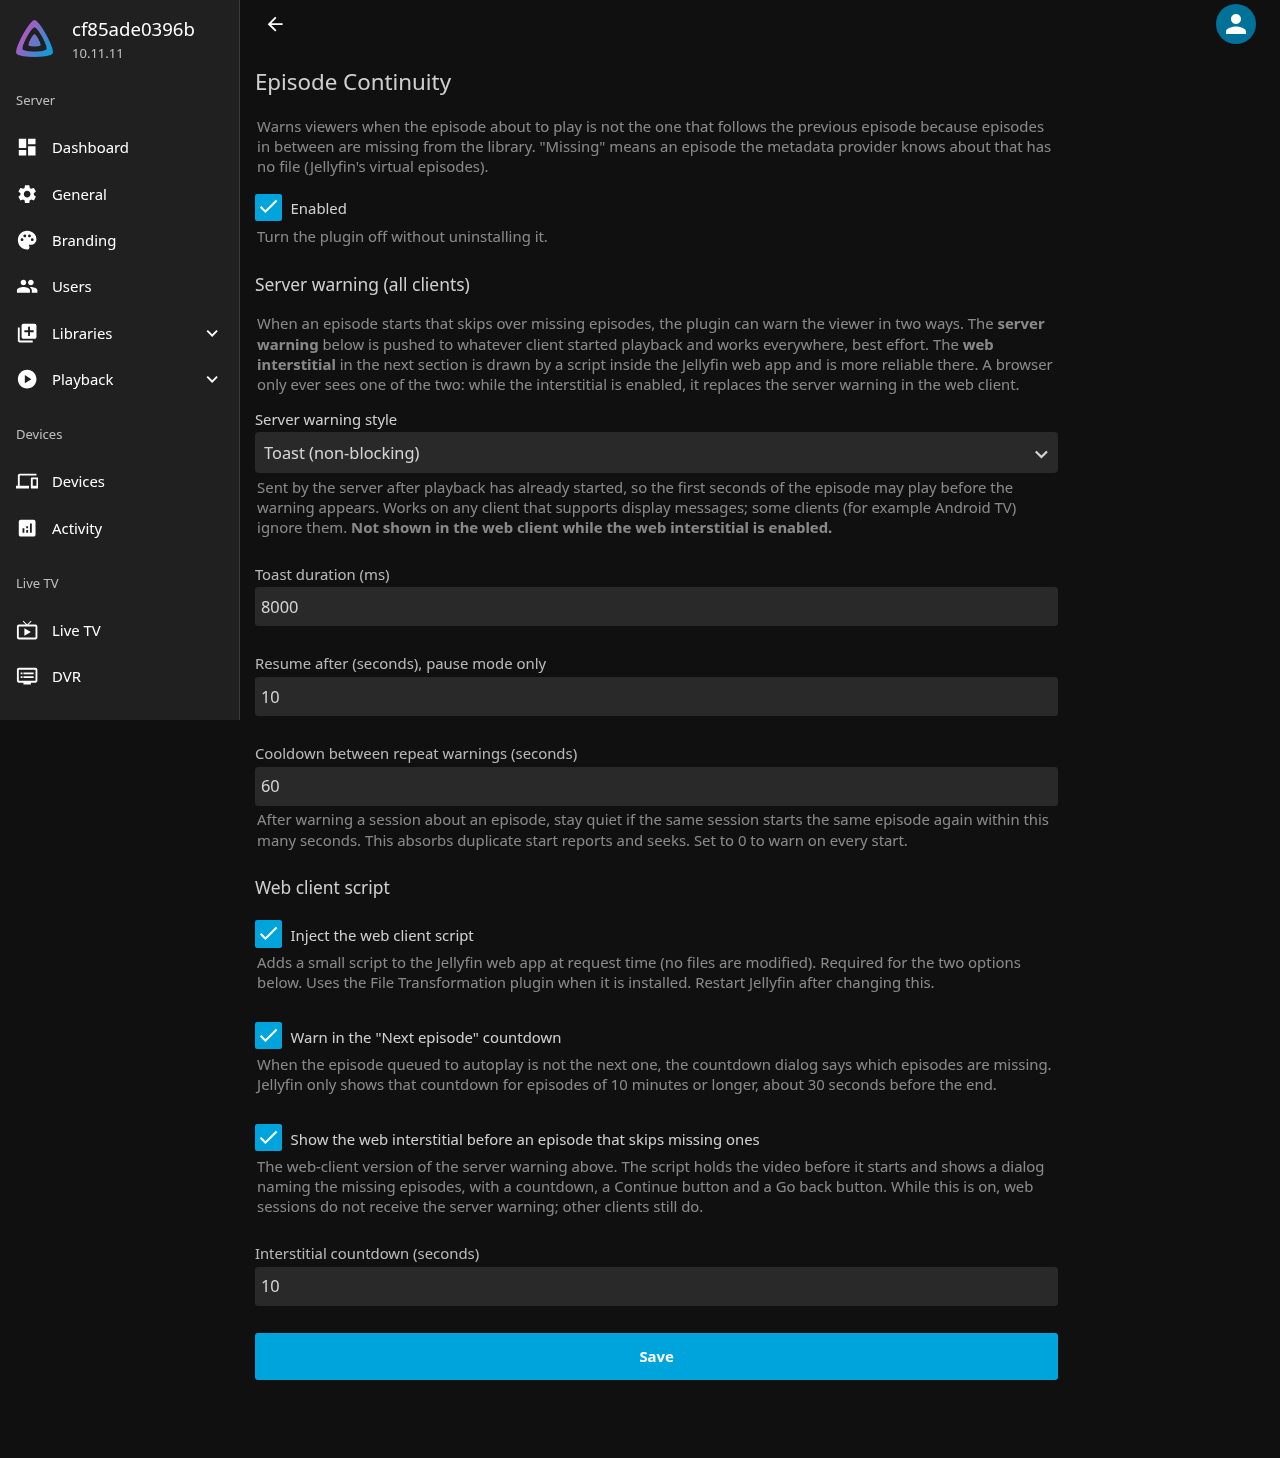
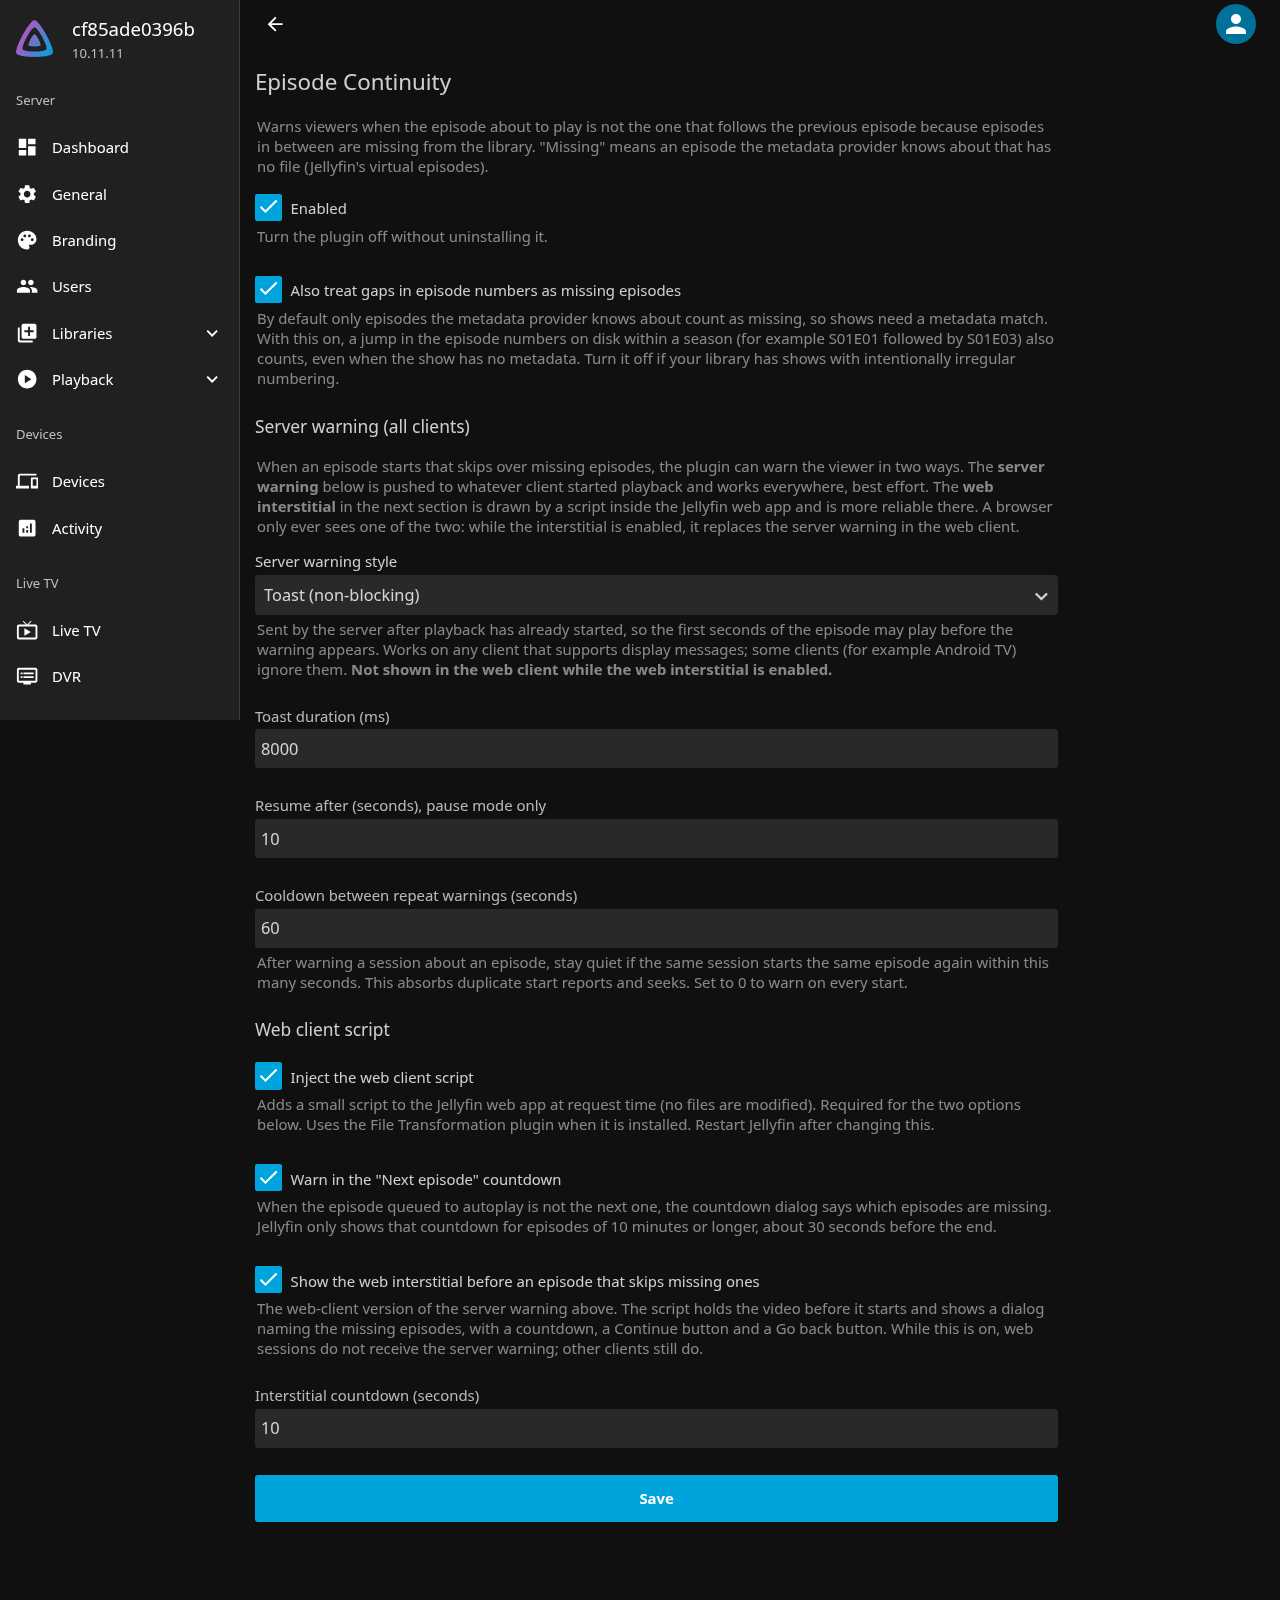
Expose TreatNumberingGapsAsMissing on the config page

diff --git a/Jellyfin.Plugin.EpisodeContinuity/Configuration/configPage.html b/Jellyfin.Plugin.EpisodeContinuity/Configuration/configPage.html
@@ -26,6 +26,14 @@
             <div class="fieldDescription checkboxFieldDescription">Turn the plugin off without uninstalling it.</div>
           </div>
 
+          <div class="checkboxContainer checkboxContainer-withDescription">
+            <label class="emby-checkbox-label">
+              <input id="TreatNumberingGapsAsMissing" name="TreatNumberingGapsAsMissing" type="checkbox" is="emby-checkbox" />
+              <span>Also treat gaps in episode numbers as missing episodes</span>
+            </label>
+            <div class="fieldDescription checkboxFieldDescription">By default only episodes the metadata provider knows about count as missing, so shows need a metadata match. With this on, a jump in the episode numbers on disk within a season (for example S01E01 followed by S01E03) also counts, even when the show has no metadata. Turn it off if your library has shows with intentionally irregular numbering.</div>
+          </div>
+
           <h3 class="sectionTitle">Server warning (all clients)</h3>
           <div class="fieldDescription" style="margin-bottom:1em">When an episode starts that skips over missing episodes, the plugin can warn the viewer in two ways. The <strong>server warning</strong> below is pushed to whatever client started playback and works everywhere, best effort. The <strong>web interstitial</strong> in the next section is drawn by a script inside the Jellyfin web app and is more reliable there. A browser only ever sees one of the two: while the interstitial is enabled, it replaces the server warning in the web client.</div>
 
@@ -96,11 +104,15 @@
         var pluginId = '3f8a1c6e-9d2b-4a7f-b5e4-c1d0e8f7a2b9';
         var page = document.querySelector('#EpisodeContinuityConfigPage');
         var checkboxes = ['Enabled', 'WebFeaturesEnabled', 'UpNextWarningEnabled', 'InterstitialEnabled'];
+        var optInCheckboxes = ['TreatNumberingGapsAsMissing']; // default off, so missing means unchecked
         var numbers = ['ToastDurationMs', 'AutoResumeSeconds', 'WarningCooldownSeconds', 'InterstitialCountdownSeconds'];
 
         function load(config) {
           checkboxes.forEach(function (id) {
             page.querySelector('#' + id).checked = config[id] !== false;
+          });
+          optInCheckboxes.forEach(function (id) {
+            page.querySelector('#' + id).checked = config[id] === true;
           });
           numbers.forEach(function (id) {
             page.querySelector('#' + id).value = config[id];
@@ -109,7 +121,7 @@
         }
 
         function save(config) {
-          checkboxes.forEach(function (id) {
+          checkboxes.concat(optInCheckboxes).forEach(function (id) {
             config[id] = page.querySelector('#' + id).checked;
           });
           numbers.forEach(function (id) {

diff --git a/Jellyfin.Plugin.EpisodeContinuity/Configuration/PluginConfiguration.cs b/Jellyfin.Plugin.EpisodeContinuity/Configuration/PluginConfiguration.cs
@@ -73,8 +73,8 @@ public class PluginConfiguration : BasePluginConfiguration
 
     /// <summary>
     /// Gets or sets a value indicating whether non-contiguous episode numbers on disk count as missing
-    /// episodes in addition to provider-known virtual episodes. Hidden from the config page; intended for
-    /// development against libraries with no metadata match.
+    /// episodes in addition to provider-known virtual episodes. Off by default because some shows are
+    /// numbered irregularly on purpose; useful for libraries without a metadata match.
     /// </summary>
     public bool TreatNumberingGapsAsMissing { get; set; }
 }

diff --git a/spec.md b/spec.md
@@ -29,7 +29,7 @@ Research and the full list of candidate surfaces live in `docs/research.md`. The
 | v1 surfaces | (1) Web up-next dialog warning, (2) web pre-play interstitial with countdown, (3) server-push warning on playback start for all clients. |
 | Not in v1 | Metadata tagging, stop-autoplay-at-gap, detail-page badge, gaps report page, placeholder episodes. |
 | What counts as "missing" | **Provider virtual episodes only**: an episode the metadata provider (TVDB/TMDB) knows about that Jellyfin holds as a virtual/missing item. Numbering gaps on disk are *not* used by default. |
-| Dev switch | Hidden config flag `TreatNumberingGapsAsMissing` (default off, not on the config page) additionally treats non-contiguous episode numbers within a season as missing, so the synthetic devcontainer library can exercise the feature end to end. |
+| Numbering gaps | Config option `TreatNumberingGapsAsMissing` (default off; on the config page since 2026-09-08, originally a hidden dev switch) additionally treats non-contiguous episode numbers within a season as missing. Lets unmatched libraries, including the synthetic devcontainer one, exercise the feature. |
 | Server-push default | Toast only (non-blocking, playback continues). Pause+modal and modal-only are selectable. |
 | Web injection | Our own request-time `index.html` middleware by default; when the File Transformation plugin is present we register with it instead so only one component rewrites the page. |
 
@@ -88,8 +88,8 @@ Research and the full list of candidate surfaces live in `docs/research.md`. The
 ### R5. Configuration
 
 Config page: Enabled; server-push mode; toast duration; auto-resume seconds; warning cooldown seconds; web features
-enabled; up-next warning enabled; interstitial enabled; interstitial countdown seconds. Hidden:
-`TreatNumberingGapsAsMissing`.
+enabled; up-next warning enabled; interstitial enabled; interstitial countdown seconds; treat
+numbering gaps as missing.
 
 ### R6. Web injection
 

diff --git a/README.md b/README.md
@@ -42,10 +42,11 @@ warning in the web client.
 
 ### What counts as missing
 
-"Missing" means an episode the metadata provider (TVDB, TMDb, ...) knows about that Jellyfin holds
-as a virtual item, so shows need a metadata match. A hidden setting,
-`TreatNumberingGapsAsMissing`, additionally treats non-contiguous episode numbers on disk as
-missing; it is meant for development against unmatched libraries.
+By default "missing" means an episode the metadata provider (TVDB, TMDb, ...) knows about that
+Jellyfin holds as a virtual item, so shows need a metadata match. The option **Also treat gaps in
+episode numbers as missing episodes** additionally counts a jump in the episode numbers on disk
+within a season (S01E01 followed by S01E03) as a gap, which works for shows with no metadata but
+misfires on shows that are numbered irregularly on purpose.
 
 ## Settings
 
@@ -56,6 +57,7 @@ Dashboard → Plugins → Episode Continuity.
 | Setting | Default | Meaning |
 | --- | --- | --- |
 | Enabled | on | Master switch. |
+| Also treat gaps in episode numbers as missing | off | Count numbering jumps on disk as gaps, not only provider-known virtual episodes. |
 | Server warning style | Toast | Off, toast, dialog, or pause + dialog + resume. |
 | Toast duration | 8000 ms | How long the toast stays up. |
 | Resume after | 10 s | Delay before unpausing in pause mode. |
